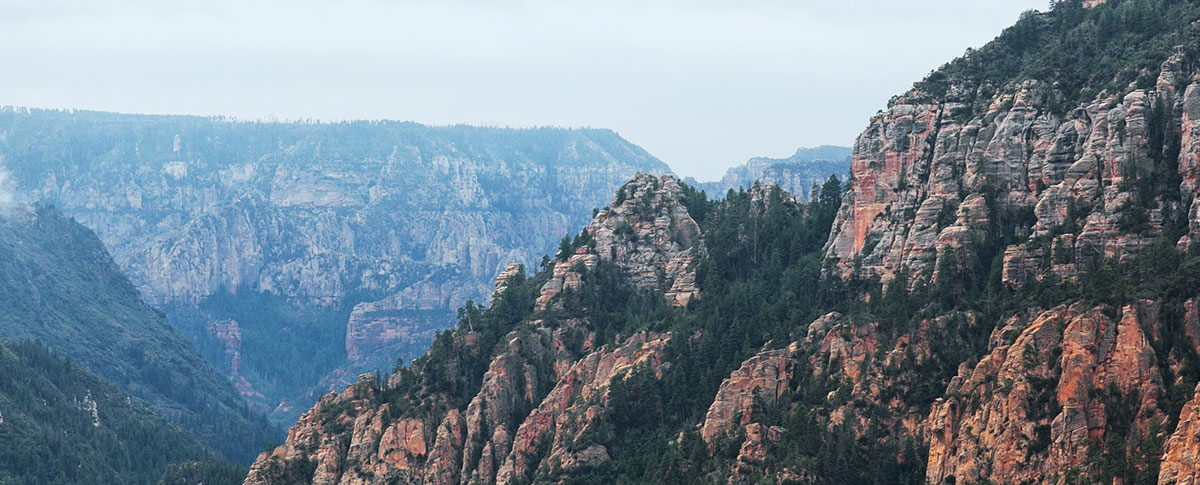
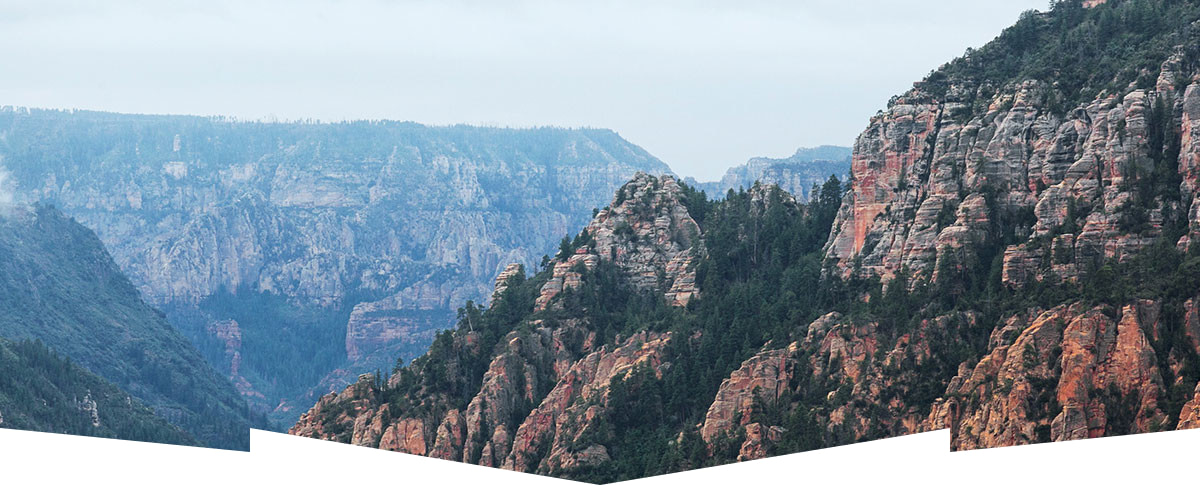
Исправлено hero-изображение

Changed region(s): [[0.0, 0.866, 1.0, 1.0]]

diff --git a/styles/style.css b/styles/style.css
@@ -134,6 +134,8 @@ body {
 .welcome-image-container {
   background-image: url("../images/welcome-mountains.jpg");
   background-repeat: no-repeat;
+  height: 485px;
+  padding-top: 51px;
 }
 
 .welcome-image {
